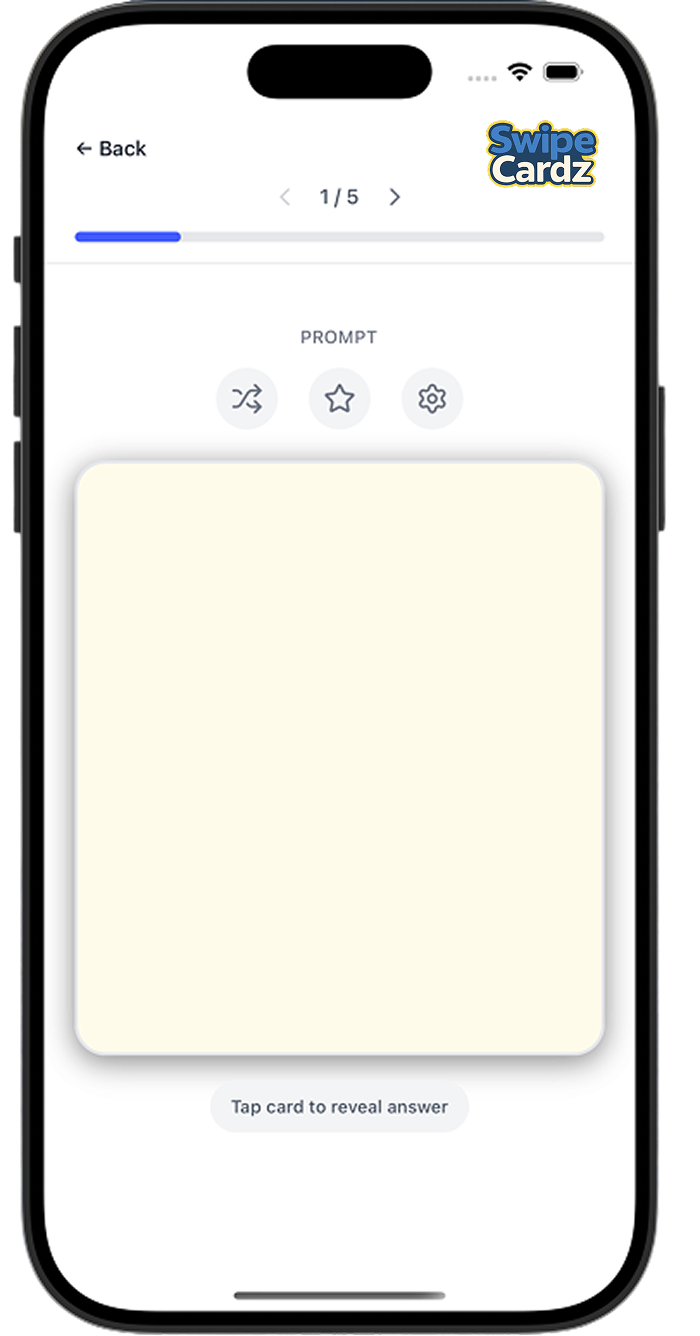
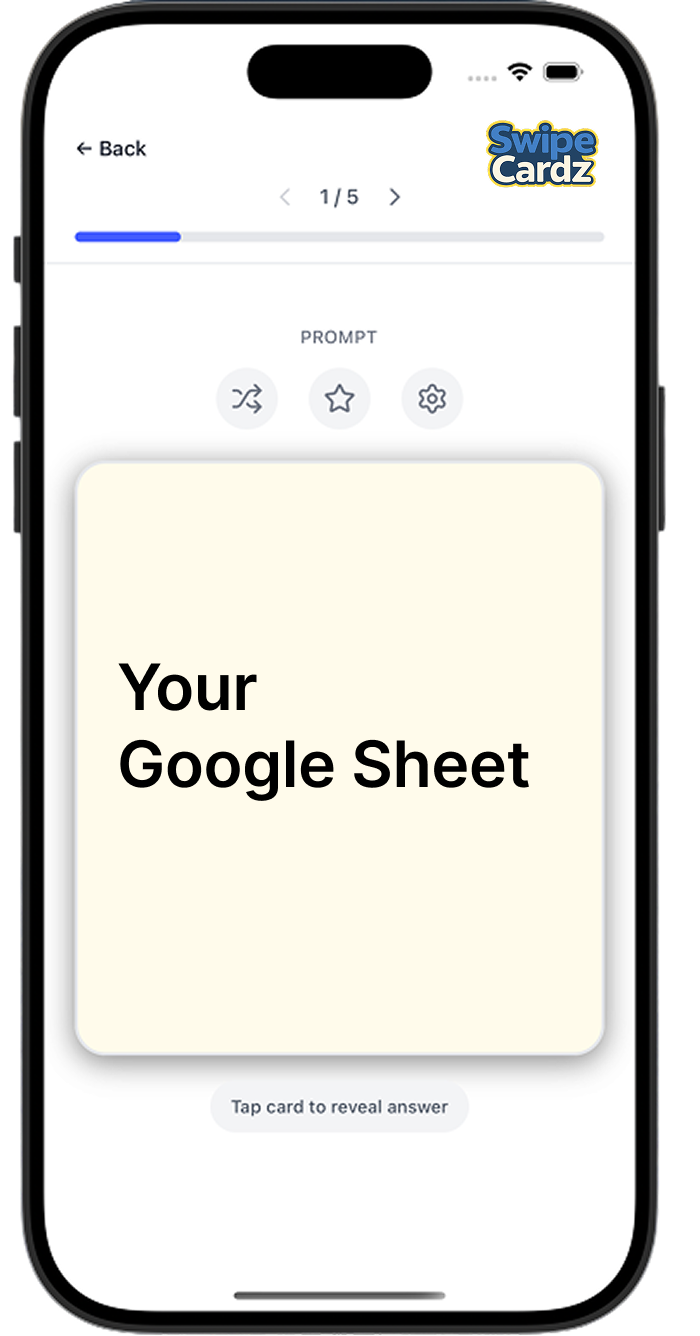
Revamp SwipeCardz landing pages with new copy, images, and testimonials
Update titles, subtitle, CTA text, phone mockup images, and add two
five-star testimonials below the phone images.

Changed region(s): [[0.15, 0.491, 0.48, 0.6138], [0.51, 0.5524, 0.75, 0.6138]]

diff --git a/app/swipecardz/ap-psych/page.tsx b/app/swipecardz/ap-psych/page.tsx
@@ -1,8 +1,6 @@
 import Image from "next/image";
 import Link from "next/link";
 import type { Metadata } from "next";
-import frontImage from "@/app/swipecardz/templates/Front.png";
-import backImage from "@/app/swipecardz/templates/Back.png";
 
 export const metadata: Metadata = {
   title: "SwipeCardz - AP Psychology Flashcards That Stick",
@@ -27,34 +25,57 @@ export default function SwipeCardzAPPsychPage() {
             }}
           />
           <h1 className="text-3xl sm:text-5xl font-bold text-gray-900 tracking-tight max-w-2xl">
-            The AP Psych Google Sheet → Digital Flashcards
+            Study these AP Psych Terms as Swipeable Flashcards
           </h1>
           <p className="text-base sm:text-xl text-gray-500 mt-3 sm:mt-3 max-w-xl">
-            Swipe, study and learn on the go.
+            No account needed. Works offline.
             <br />
-            No subscriptions, no ads.
+            No subscriptions. No ads.
           </p>
         </div>
 
-        <div className="flex justify-center items-center gap-0 max-w-md sm:max-w-sm mx-auto">
-          <div className="w-[50%] relative aspect-[687/1353]">
-            <Image
-              src={frontImage}
-              alt="SwipeCardz flashcard front - prompt view"
-              fill
-              className="object-contain"
-              priority
-            />
+        <div className="flex justify-center items-start gap-4 max-w-md sm:max-w-sm mx-auto">
+          <div className="w-[50%] flex flex-col items-center">
+            <div className="relative aspect-[687/1353] w-full">
+              <Image
+                src="/swipecardz-front.png"
+                alt="Whatever terms you want"
+                fill
+                className="object-contain"
+                priority
+              />
+            </div>
           </div>
-          <div className="w-[50%] relative aspect-[687/1353]">
-            <Image
-              src={backImage}
-              alt="SwipeCardz flashcard back - answer view"
-              fill
-              className="object-contain"
-              priority
-            />
+          <div className="w-[50%] flex flex-col items-center">
+            <div className="relative aspect-[687/1353] w-full">
+              <Image
+                src="/swipecardz-back.png"
+                alt="From any Public Google Sheet"
+                fill
+                className="object-contain"
+                priority
+              />
+            </div>
           </div>
+        </div>
+
+        <div className="grid grid-cols-1 sm:grid-cols-2 gap-4 max-w-lg mx-auto mt-8">
+          {[
+            { name: "Jake R.", text: "Just as good as the big flashcard apps but without the monthly fee. No account needed, no friction — just open it and study." },
+            { name: "Priya K.", text: "I made 30 different decks with my favorite LLM, dropped them into Google Sheets, and uploaded them here in minutes. Now it's what I study on my commute every day." },
+          ].map((t) => (
+            <div key={t.name} className="bg-gray-50 rounded-xl px-4 py-3">
+              <div className="flex items-center gap-1 mb-1">
+                {Array.from({ length: 5 }).map((_, i) => (
+                  <svg key={i} className="w-3.5 h-3.5 text-yellow-400" fill="currentColor" viewBox="0 0 20 20">
+                    <path d="M9.049 2.927c.3-.921 1.603-.921 1.902 0l1.07 3.292a1 1 0 00.95.69h3.462c.969 0 1.371 1.24.588 1.81l-2.8 2.034a1 1 0 00-.364 1.118l1.07 3.292c.3.921-.755 1.688-1.54 1.118l-2.8-2.034a1 1 0 00-1.175 0l-2.8 2.034c-.784.57-1.838-.197-1.539-1.118l1.07-3.292a1 1 0 00-.364-1.118L2.98 8.72c-.783-.57-.38-1.81.588-1.81h3.461a1 1 0 00.951-.69l1.07-3.292z" />
+                  </svg>
+                ))}
+              </div>
+              <p className="text-sm text-gray-700 leading-snug">&ldquo;{t.text}&rdquo;</p>
+              <p className="text-xs text-gray-400 mt-1">— {t.name}</p>
+            </div>
+          ))}
         </div>
 
         <div className="hidden sm:flex flex-col items-center mt-6">
@@ -92,7 +113,7 @@ export default function SwipeCardzAPPsychPage() {
             >
               <path d="M18.71 19.5c-.83 1.24-1.71 2.45-3.05 2.47-1.34.03-1.77-.79-3.29-.79-1.53 0-2 .77-3.27.82-1.31.05-2.3-1.32-3.14-2.53C4.25 17 2.94 12.45 4.7 9.39c.87-1.52 2.43-2.48 4.12-2.51 1.28-.02 2.5.87 3.29.87.78 0 2.26-1.07 3.8-.91.65.03 2.47.26 3.64 1.98-.09.06-2.17 1.28-2.15 3.81.03 3.02 2.65 4.03 2.68 4.04-.03.07-.42 1.44-1.38 2.83M13 3.5c.73-.83 1.94-1.46 2.94-1.5.13 1.17-.34 2.35-1.04 3.19-.69.85-1.83 1.51-2.95 1.42-.15-1.15.41-2.35 1.05-3.11z" />
             </svg>
-            Download on the App Store
+            Start Studying For Free
           </a>
         </div>
       </div>

diff --git a/app/swipecardz/sat/page.tsx b/app/swipecardz/sat/page.tsx
@@ -1,8 +1,6 @@
 import Image from "next/image";
 import Link from "next/link";
 import type { Metadata } from "next";
-import frontImage from "@/app/swipecardz/templates/Front.png";
-import backImage from "@/app/swipecardz/templates/Back.png";
 
 export const metadata: Metadata = {
   title: "SwipeCardz - SAT Flashcards That Stick",
@@ -27,34 +25,57 @@ export default function SwipeCardzPage() {
             }}
           />
           <h1 className="text-3xl sm:text-5xl font-bold text-gray-900 tracking-tight max-w-2xl">
-            The SAT Google Sheet → Digital Flashcards
+            Study these SAT terms as Swipeable Flashcards
           </h1>
           <p className="text-base sm:text-xl text-gray-500 mt-3 sm:mt-3 max-w-xl">
-            Swipe, study and learn on the go.
+            No account needed. Works offline.
             <br />
-            No subscriptions, no ads.
+            No subscriptions. No ads.
           </p>
         </div>
 
-        <div className="flex justify-center items-center gap-0 max-w-md sm:max-w-sm mx-auto">
-          <div className="w-[50%] relative aspect-[687/1353]">
-            <Image
-              src={frontImage}
-              alt="SwipeCardz flashcard front - prompt view"
-              fill
-              className="object-contain"
-              priority
-            />
+        <div className="flex justify-center items-start gap-4 max-w-md sm:max-w-sm mx-auto">
+          <div className="w-[50%] flex flex-col items-center">
+            <div className="relative aspect-[687/1353] w-full">
+              <Image
+                src="/swipecardz-front.png"
+                alt="Whatever terms you want"
+                fill
+                className="object-contain"
+                priority
+              />
+            </div>
           </div>
-          <div className="w-[50%] relative aspect-[687/1353]">
-            <Image
-              src={backImage}
-              alt="SwipeCardz flashcard back - answer view"
-              fill
-              className="object-contain"
-              priority
-            />
+          <div className="w-[50%] flex flex-col items-center">
+            <div className="relative aspect-[687/1353] w-full">
+              <Image
+                src="/swipecardz-back.png"
+                alt="From any Public Google Sheet"
+                fill
+                className="object-contain"
+                priority
+              />
+            </div>
           </div>
+        </div>
+
+        <div className="grid grid-cols-1 sm:grid-cols-2 gap-4 max-w-lg mx-auto mt-8">
+          {[
+            { name: "Jake R.", text: "Just as good as the big flashcard apps but without the monthly fee. No account needed, no friction — just open it and study." },
+            { name: "Priya K.", text: "I made 30 different decks with my favorite LLM, dropped them into Google Sheets, and uploaded them here in minutes. Now it's what I study on my commute every day." },
+          ].map((t) => (
+            <div key={t.name} className="bg-gray-50 rounded-xl px-4 py-3">
+              <div className="flex items-center gap-1 mb-1">
+                {Array.from({ length: 5 }).map((_, i) => (
+                  <svg key={i} className="w-3.5 h-3.5 text-yellow-400" fill="currentColor" viewBox="0 0 20 20">
+                    <path d="M9.049 2.927c.3-.921 1.603-.921 1.902 0l1.07 3.292a1 1 0 00.95.69h3.462c.969 0 1.371 1.24.588 1.81l-2.8 2.034a1 1 0 00-.364 1.118l1.07 3.292c.3.921-.755 1.688-1.54 1.118l-2.8-2.034a1 1 0 00-1.175 0l-2.8 2.034c-.784.57-1.838-.197-1.539-1.118l1.07-3.292a1 1 0 00-.364-1.118L2.98 8.72c-.783-.57-.38-1.81.588-1.81h3.461a1 1 0 00.951-.69l1.07-3.292z" />
+                  </svg>
+                ))}
+              </div>
+              <p className="text-sm text-gray-700 leading-snug">&ldquo;{t.text}&rdquo;</p>
+              <p className="text-xs text-gray-400 mt-1">— {t.name}</p>
+            </div>
+          ))}
         </div>
 
         <div className="hidden sm:flex flex-col items-center mt-6">
@@ -92,7 +113,7 @@ export default function SwipeCardzPage() {
             >
               <path d="M18.71 19.5c-.83 1.24-1.71 2.45-3.05 2.47-1.34.03-1.77-.79-3.29-.79-1.53 0-2 .77-3.27.82-1.31.05-2.3-1.32-3.14-2.53C4.25 17 2.94 12.45 4.7 9.39c.87-1.52 2.43-2.48 4.12-2.51 1.28-.02 2.5.87 3.29.87.78 0 2.26-1.07 3.8-.91.65.03 2.47.26 3.64 1.98-.09.06-2.17 1.28-2.15 3.81.03 3.02 2.65 4.03 2.68 4.04-.03.07-.42 1.44-1.38 2.83M13 3.5c.73-.83 1.94-1.46 2.94-1.5.13 1.17-.34 2.35-1.04 3.19-.69.85-1.83 1.51-2.95 1.42-.15-1.15.41-2.35 1.05-3.11z" />
             </svg>
-            Download on the App Store
+            Start Studying For Free
           </a>
         </div>
       </div>
